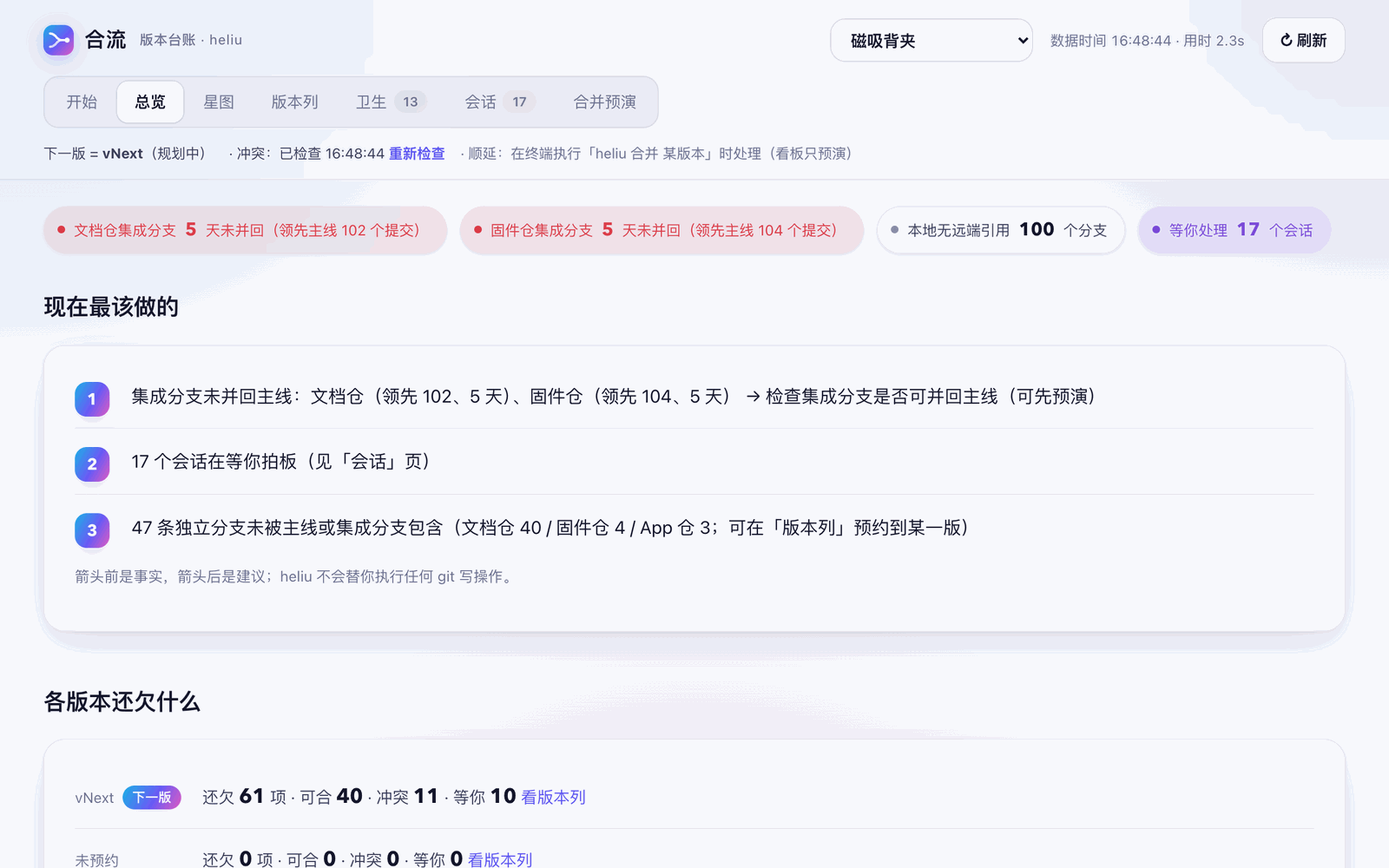
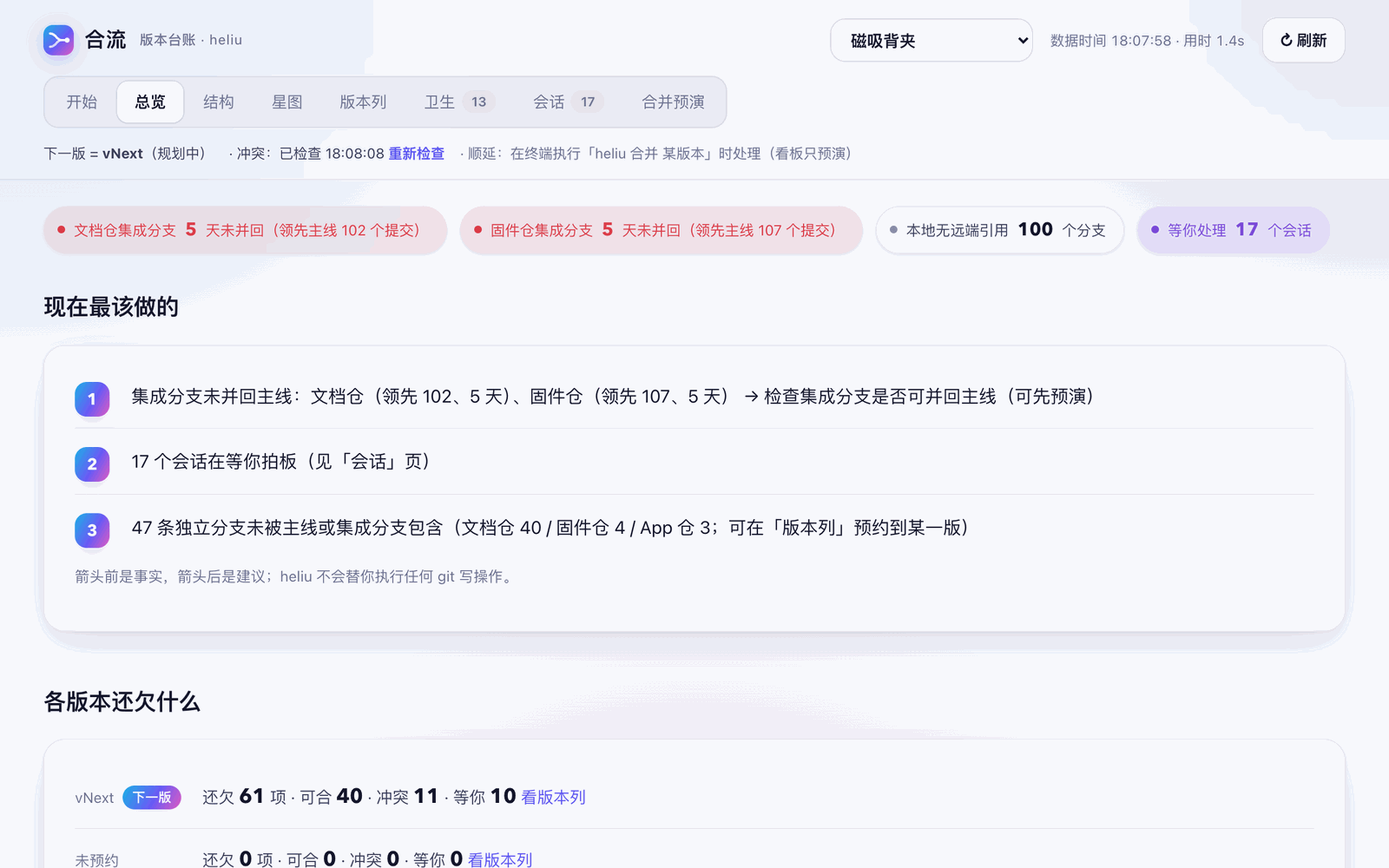
M8：「已合入待确认」与「同步一下」同一口径；README、教程与截图更新
- 卡片新增 mergedTo（看板 /api/features）：用合并后同步同一个函数 mergedSuggestions 算，每次扫描算一次、卡的状态或绑定变了就重算
- 结构页「已合入待确认」= 版本列里的「已合入 · 待确认台账」∪ 分支已合进去但还在等你的卡（标「分支已合入」），数字与同步面板一致（磁吸背夹实测 23 → 26，多出的 3 张是等你回答的卡）
- 测试：卡片 mergedTo 与 GET /api/merged 的建议逐条一致
- README：星团、形状 = 类型、结构页、拖版本行星到合流点复制 Prompt、同步一下、命令速查（分类、同步合并结果 / heliu_after_merge）、已知限制（Safari 剪贴板未实测、内置浏览器不让写剪贴板、类型模块是推测）
- 教程：「用拖的」合并、合并完同步一下、星团怎么看、结构页、modules.yaml 示例、速查卡
- 截图：用真实数据的新副本另起看板重拍（新增 structure-light.png）

diff --git a/src/board/data.ts b/src/board/data.ts
@@ -57,7 +57,7 @@ import { baselinePreview } from "./baseline.ts";
 import { HELIU_ROOT } from "./root.ts";
 import { classify, classifyText, FEATURE_TYPES } from "../core/classify.ts";
 import { loadModules } from "../core/modules.ts";
-import { afterMerge } from "../core/after-merge.ts";
+import { afterMerge, mergedSuggestions } from "../core/after-merge.ts";
 import { buildMergePrompt } from "../core/merge-prompt.ts";
 import { buildHygiene } from "./hygiene.ts";
 
@@ -74,6 +74,8 @@ export interface Scan {
   precheck: boolean;
   /** 「尚无独有提交」判定缓存（bindingKey → 是否），随扫描一起过期 */
   zero: Map<string, boolean>;
+  /** M8：合并后同步的建议（卡号 → 可改成的状态）；台账里卡的状态 / 绑定变了就重算 */
+  merged?: { sig: string; p: Promise<Map<string, "已合入" | "已进主线">> };
 }
 
 export interface BoardOptions {
@@ -192,6 +194,19 @@ export class BoardService {
       for (const c of missing) scan.zero.set(bindingKey(c.repo, c.branch), hit.has(bindingKey(c.repo, c.branch)));
     }
     return new Set([...scan.zero].filter(([, v]) => v).map(([k]) => k));
+  }
+
+  /** M8：与「同步一下」同一条规则（mergedSuggestions），每次扫描算一次；卡的状态或绑定变了就重算 */
+  private mergedOf(project: ProjectConfig, scan: Scan, features: LedgerFeature[]): Promise<Map<string, "已合入" | "已进主线">> {
+    const sig = features.map((f) => `${f.id}:${f.status}:${f.bindings.map((b) => `${b.repo}/${b.branch}`).join(",")}`).join("|");
+    if (!scan.merged || scan.merged.sig !== sig) {
+      const p = mergedSuggestions(project, this.paths, { reconciled: scan.result, timeoutMs: this.timeoutMs }).then(
+        (r) => new Map(r.suggestions.map((s) => [s.id, s.to] as const)),
+        () => new Map<string, "已合入" | "已进主线">(),
+      );
+      scan.merged = { sig, p };
+    }
+    return scan.merged.p;
   }
 
   private nextOf(milestones: LedgerMilestone[]): { id: string; status: LedgerMilestone["status"] } | null {
@@ -359,11 +374,13 @@ export class BoardService {
     // M8：给每张卡标类型 / 模块（卡片上写了就用卡片的，没写就按标题、分支标签、会话标题、分支名推测）
     const mods = loadModules(ledger.dir);
     const featById = new Map(features.map((f) => [f.id, f]));
+    const mergedTo = await this.mergedOf(project, scan, features);
     for (const col of shown)
       for (const card of col.cards) {
         const f = featById.get(card.id) ?? null;
         const text = classifyText([card.title, ...card.bindings.flatMap((b) => [b.label, b.session?.title, b.branch])]);
         Object.assign(card, classify(f, text, mods.modules));
+        card.mergedTo = card.done ? null : (mergedTo.get(card.id) ?? null);
       }
     return {
       data: {
@@ -437,6 +454,7 @@ export class BoardService {
         typeSource: f.type ? "card" : "guess",
         module: f.module ?? "其他",
         moduleSource: f.module ? "card" : "guess",
+        mergedTo: null,
       });
     };
     if (todo) {

diff --git a/web/structure-model.ts b/web/structure-model.ts
@@ -43,6 +43,8 @@ export interface SItem {
   repos: string[];
   /** 没卡的分支：改类型 / 模块时据此建卡 */
   bind: { repo: string; branch: string } | null;
+  /** 主状态不是「已合入待确认」（例如还在等你），但分支其实已经合进去了：也列进「已合入待确认」，与「同步一下」一致 */
+  alsoMerged: boolean;
 }
 
 export interface SModule {
@@ -111,7 +113,10 @@ export function buildStructure(report: ReconcileReport, features: FeaturesData):
         lastAt: c.lastActivityAt,
         repos: [...new Set(c.bindings.map((b) => b.repoLabel))],
         bind: null,
+        alsoMerged: false,
       });
+      const it = items[items.length - 1]!;
+      if (c.mergedTo && it.state !== "done" && it.state !== "merged") it.alsoMerged = true;
     }
   // 还没建卡、也还没进主线的分支（与星图"还没建卡"同一口径）
   for (const r of report.repos) {
@@ -133,6 +138,7 @@ export function buildStructure(report: ReconcileReport, features: FeaturesData):
         lastAt: b.lastCommitAt,
         repos: [r.label],
         bind: { repo: r.id, branch: b.branch },
+        alsoMerged: false,
       });
     }
   }
@@ -164,7 +170,7 @@ export function buildStructure(report: ReconcileReport, features: FeaturesData):
   }
   const decisions: StructureModel["decisions"] = {};
   for (const s of STATES) if (s.decide) {
-    const list = items.filter((i) => i.state === s.key).sort(byUrgency);
+    const list = items.filter((i) => i.state === s.key || (s.key === "merged" && i.alsoMerged)).sort(byUrgency);
     if (list.length) decisions[s.key] = list;
   }
   const types = FEATURE_TYPES.filter((t) => items.some((i) => i.type === t));

diff --git a/tests/m8.test.ts b/tests/m8.test.ts
@@ -217,6 +217,11 @@ describe("看板接口", () => {
     const list = ((await g.json()) as { data: MergedData }).data;
     expect(list.dryRun).toBe(true);
     expect(list.suggestions.map((s) => s.id)).toContain(ids.main);
+    // 卡片上的 mergedTo 与「同步一下」同一规则：结构页「已合入待确认」的数字和同步面板一致
+    const fr = await app.request("/api/features?precheck=0");
+    const cards = ((await fr.json()) as { data: FeaturesData }).data.columns.flatMap((c) => c.cards);
+    const flagged = cards.filter((c) => c.mergedTo).map((c) => [c.id, c.mergedTo]);
+    expect(flagged.sort()).toEqual(list.suggestions.map((s) => [s.id, s.to]).sort());
     const bad = await app.request("/api/merged", { method: "POST", headers: { "Content-Type": "application/json" }, body: JSON.stringify({}) });
     expect(bad.status).toBe(400);
     const p = await app.request("/api/merged", { method: "POST", headers: { "Content-Type": "application/json" }, body: JSON.stringify({ ids: [ids.main] }) });

diff --git a/web/structure.tsx b/web/structure.tsx
@@ -213,6 +213,7 @@ function ItemLine({ it, showModule }: { it: SItem; showModule?: boolean }) {
         </span>
         <span class="item-sub">
           <span class={`tag t-${s.tone}`}>{s.title}</span>
+          {it.alsoMerged ? <span class="tag t-green" title="分支已被集成分支 / 主线包含，台账还没改；「同步一下」会列出它"> 分支已合入</span> : null}
           {showModule ? <span class="muted"> {it.module} ·</span> : null}
           <span class="muted"> {it.milestone ? `预约 ${it.milestone}` : it.cardId ? "未预约" : it.repos.join("、")}</span>
           {it.lastAt ? <span class="muted"> · {ago(it.lastAt)}</span> : null}

diff --git a/src/board/api-types.ts b/src/board/api-types.ts
@@ -131,6 +131,8 @@ export interface BoardCard {
   /** M8：所属模块（整机的组成部分） */
   module: string;
   moduleSource: "card" | "guess";
+  /** M8：分支已被集成分支 / 主线包含、台账还没改——「同步一下」会把它改成的状态（与 /api/merged 同一规则）；已完成的卡为 null */
+  mergedTo: "已合入" | "已进主线" | null;
 }
 
 export interface BoardColumn {

diff --git a/docs/assets/shots.py b/docs/assets/shots.py
@@ -9,7 +9,7 @@
 依赖：pip install playwright pillow；浏览器优先用本机 Google Chrome（channel=chrome），
 没有就用 Playwright 自带的 chromium（需先 playwright install chromium）。
 
-只读说明：脚本只通过 URL 的 #/overview（总览）、#/board（版本列）、#/release（合并预演）切换页面，触发的都是 GET 请求；
+只读说明：脚本只通过 URL 的 #/start、#/galaxy、#/structure、#/overview、#/board、#/release 切换页面，触发的都是 GET 请求；
 不点「登记」「生成合并单」「同步」，也不拖卡片，所以不会写台账。
 """
 import argparse
@@ -26,6 +26,7 @@ ASSETS = pathlib.Path(__file__).resolve().parent
 SHOTS = [
     ("start-page-light.png", "start", 1280, 820, "light"),
     ("galaxy-dark.png", "galaxy", 1440, 900, "dark"),
+    ("structure-light.png", "structure", 1440, 900, "light"),
     ("board-overview-light.png", "overview", 1280, 800, "light"),
     ("board-overview-dark.png", "overview", 1280, 800, "dark"),
     ("board-columns-dark.png", "board", 1280, 800, "dark"),

diff --git a/README.md b/README.md
@@ -38,21 +38,32 @@
 
 - **「开始」页五步**：检查环境 → 粘贴仓库路径接入项目（只读检测，猜主线和集成分支）→ 把正在做的分支一次登记成卡 → 就地登记新点子 → 复制合并用的终端命令。
 - **顶栏下拉切换项目**，记住上次选择。
-- **「星图」页**：宇宙星河风格的分支关系图。横轴是时间（越右越新），纵轴是仓库泳道；每条泳道有主线、集成分支两条星河主流。最新的三条分支带呼吸光晕和「★ 最新」，蓝色虚边的星点是还没有功能卡的分支。
+- **「星图」页**：宇宙星河风格的分支关系图。横轴是时间（越右越新），纵轴是仓库泳道；每条泳道有主线、集成分支两条星河主流。每条泳道按类型分行（修复 ◆ / 功能 ● / 调研 ▲ / 文档 ■ / 工程 ⬢ / 其他 ○），默认每行收成一个「星团」：小点是每条分支的时间，旁边写条数、等你几条、最新多久前。点行头或星团展开成星点，「全部展开」一键切换。颜色表示状态，形状表示类型。最新的三条分支带呼吸光晕和「★ 最新」，蓝色虚边的星点是还没有功能卡的分支。
+- **「结构」页**：整机功能一页看完。顶部是现在该你决定的（等你 / 冲突 / 已合入待确认 / 可合并 / 落后 / 还没建卡），点数字列出条目，每条能跳到星图定位；中间是「模块 × 类型」矩阵；下面每个模块一张卡，写着进度和最需要决定的三项，展开后可以改类型和模块。
+- **类型和模块是推测的**：按标题、会话标题、分支名里的关键词推测（fix / bug / 修复 → 修复，调研 / 评估 → 调研……）。你改过一次就写进卡片，之后推测不会覆盖。模块词典是内置的通用划分，可在台账目录放 `modules.yaml` 换成你自己的。
 
 | 在星图里拖 | 放到 | 发生什么 |
 |---|---|---|
 | 分支星点 | 右侧版本行星 | 改预约到这一版；还没卡的分支会自动建卡 |
 | 分支星点 | 行星旁的小卡星 | 把分支绑定到这张卡 |
 | 星点 | 「未预约」 | 取消预约 |
-| 星点 | 泳道右端的「合流点」 | 排进这一版的合并单，决定设为「并入」，立刻显示试合结果和执行命令 |
+| 星点 | 泳道右端的「合流点」 | 排进这一版的合并单，决定设为「并入」，显示试合结果，并把这一版的合并 Prompt 复制到剪贴板 |
+| 星点 | 左侧的类型行头 | 改类型（写进卡片；还没卡的分支会自动建卡） |
+| **版本行星** | **「合流点」** | **合并这一版**：刷新合并单，把一段合并 Prompt 复制到剪贴板 |
 
-拖到合流点**只写合并单，不执行 git 合并**。真正合并仍在终端运行 `heliu 合并 <版本>`，看完摘要输入 yes 才开始，并且可以回滚。手机上不方便拖时，点星点，在详情面板里用下拉和按钮完成同样的操作。
+复制的 Prompt 粘贴到任意 Claude 会话即可。它让 Claude 先运行预演、用中文讲清会合入什么、顺延什么、哪里有冲突，并写明「不要替我执行合并」，Prompt 里不带 `--yes`。真正合并仍在终端运行 `heliu 合并 <版本>`，看完摘要输入 yes 才开始，并且可以回滚。
+
+合并完回到看板，点 **「刚合并完？同步一下」**（星图、结构页、合并预演页都有）。它重新对账，列出「分支已被集成分支 / 主线包含、台账还是旧状态」的卡，你勾选后才写进台账；只改台账，不碰仓库，状态只往前改。终端里对应 `heliu 同步合并结果`（加 `--dry-run` 只看不写）。
+
+拖到合流点**只写合并单，不执行 git 合并**。手机上不方便拖时，点星点或行星，在详情面板里用下拉和按钮完成同样的操作。
 
 <table>
   <tr>
     <td align="center" width="50%"><img src="docs/assets/start-page-light.png" alt="看板「开始」页：渐变大标题的欢迎说明，下面第 1 步「检查环境」只列出提醒项，正常项收成一行可展开" /><br/><sub><b>开始</b>：五步上手，第一次打开就落在这里</sub></td>
-    <td align="center" width="50%"><img src="docs/assets/galaxy-dark.png" alt="星图：深色星空背景上，文档仓、固件仓两条泳道里分布着彩色星点，右侧是发光的 vNext 行星和「未预约」「已发布」，最新分支标着金色「★ 最新」" /><br/><sub><b>星图</b>：纵横看清每条分支在哪、离合并还差什么</sub></td>
+    <td align="center" width="50%"><img src="docs/assets/galaxy-dark.png" alt="星图：深色星空背景上，文档仓、固件仓泳道按修复、功能、调研、文档、工程分行，每行收成一个星团，标着条数、等你几条和最新时间；右侧是发光的 vNext 行星和合流点" /><br/><sub><b>星图</b>：按类型收成星团，点开看每条分支</sub></td>
+  </tr>
+  <tr>
+    <td align="center" colspan="2"><img src="docs/assets/structure-light.png" alt="结构页：顶部「现在该决定的」几个大数字（等你回答、有冲突、可合并、还没建卡），下面是模块 × 类型矩阵和每个模块的进度条" width="80%" /><br/><sub><b>结构</b>：整机由哪些模块组成、每块在修还是在做、现在该你决定什么</sub></td>
   </tr>
 </table>
 
@@ -85,7 +96,7 @@
 
 ## 看板一览
 
-`heliu board` 打开一个只监听 127.0.0.1 的本机网页，共七页：开始、总览、星图、版本列、卫生、会话、合并预演。不带 `--project` 也能启动，页面里选项目。下面是其中四页：
+`heliu board` 打开一个只监听 127.0.0.1 的本机网页，共八页：开始、总览、结构、星图、版本列、卫生、会话、合并预演。不带 `--project` 也能启动，页面里选项目。下面是其中四页：
 
 <table>
   <tr>
@@ -226,7 +237,7 @@ CLAUDE="$(ls -d "$HOME/Library/Application Support/Claude/claude-code/"*/*/claud
     Status: ✔ enabled
 ```
 
-最后在 Claude 桌面应用里新开一个会话：输入 `/heliu` 应能看到 `/heliu:heliu` Skill，会话可用的工具里应有 13 个 `heliu_*` 工具。
+最后在 Claude 桌面应用里新开一个会话：输入 `/heliu` 应能看到 `/heliu:heliu` Skill，会话可用的工具里应有 14 个 `heliu_*` 工具。
 
 ### 4. 接入第一个项目
 
@@ -287,11 +298,13 @@ scripts/uninstall.sh            # 想先看会做什么：scripts/uninstall.sh -
 | 改预约 | `heliu 预约 F-0003 v1.3`（版本不存在就新建；写 `无` 取消预约） | `heliu_feature_reserve` |
 | 我在哪（分支 / 功能卡 / 预约 / 落后多少） | `heliu 我在哪` | `heliu_whereami` |
 | 把现有分支登记成草稿卡 | `heliu sync --dry-run` → `heliu sync` | `heliu_sync` |
+| 改类型 / 模块（不改就按推测） | `heliu 分类 F-0012 --type 修复 --module 语音与对话`（`--type bug` 也认；写 `推测` 恢复推测） | `heliu_feature_set_status`（带 `type` / `module`） |
 | 打开看板 | `heliu board [--project <名>] [--port 7788] [--no-open]`，或双击「合流看板.command」 | — |
 | 合并 · 预演（生成合并单，只读仓库） | `heliu 合并 v1.2 --预演`；改决定 `heliu release set v1.2 F-0012 顺延` | `heliu_release_preview`、`heliu_release_plan_set_decision` |
 | 合并 · 执行 | `heliu 合并 v1.2`（逐条确认；`--dry-run` 只说明会怎么做；`--to-main` 能快进才快进主线） | 不提供 |
 | 合并 · 演练（在克隆上完整跑一遍） | `heliu 演练 v1.2` | — |
 | 合并 · 回滚 | `heliu 回滚 v1.2` | — |
+| 合并后同步（在别处合并了分支，把台账补上） | `heliu 同步合并结果 [--dry-run]` | `heliu_after_merge`（默认只预览） |
 | 会话 / 卫生 / 环境 | `heliu sessions` · `heliu hygiene` · `heliu doctor` | `heliu_sessions`、`heliu_hygiene` |
 | 里程碑 | `heliu milestone add / list / freeze / rename` | `heliu_milestone_list` |
 | 接入新仓库 | `heliu project add <路径> [--integration <分支>] [--ledger repo] [--yes]` | — |
@@ -339,7 +352,7 @@ flowchart TD
 
 | 项目 | 结论 | 依据 |
 |---|---|---|
-| 全量测试 | ✅ 229 个通过、0 失败（15 个测试文件），类型检查通过 | `bun test`、`bun run typecheck` |
+| 全量测试 | ✅ 260 个通过（19 个测试文件），类型检查通过；机器很忙时 hook 计时用例偶尔不过，单独重跑通过（见「已知限制」） | `bun test`、`bun run typecheck` |
 | 真装插件 + 真实桌面会话端到端 | ✅ 通过：会话里出现 13 个 `heliu_*` 工具与 `/heliu:heliu` Skill，直接查到 61 条待办 | [M5 验收记录](docs/04-验收记录/M5.md) 闸门一 |
 | 接入其他项目 | ✅ 通过：向导真实接入第二个项目，被管理仓库零写入 | [M5 实现说明](docs/03-架构/M5-实现说明.md) |
 | 三仓库扫描速度 | ✅ 终验三轮实测 0.52 / 0.6 / 1.61 秒，iCloud 仓库不卡死 | [M5 验收记录](docs/04-验收记录/M5.md) |
@@ -355,7 +368,7 @@ flowchart TD
 | [使用教程](docs/教程.md) | 通俗版：三个词、四个日常动作、看板怎么看、常见情况怎么办、速查卡 |
 | [产品定义](docs/02-产品定义/产品定义_v0.1.md) | 做什么、为什么、看板信息架构、怎么算做成 |
 | [架构决策](docs/03-架构/架构决策_v0.1.md) | 7 条 ADR（技术栈、数据落点、git 只读纪律、hooks……） |
-| [里程碑任务卡与实现说明](docs/03-架构/) | `M1…M5-任务卡.md` 与 `M1…M5-实现说明.md`：每个里程碑的规格与实现细节、实测数字 |
+| [里程碑任务卡与实现说明](docs/03-架构/) | `M1…M8-任务卡.md` 与 `M1…M5-实现说明.md`：每个里程碑的规格与实现细节、实测数字 |
 | [验收记录](docs/04-验收记录/) | 每个里程碑的验收记录（Fable 终验 + Codex 二次验收）、截图、[M4 演练报告](docs/04-验收记录/M4-演练报告.md) |
 | [现场证据](docs/00-现场证据/)、[调研](docs/01-调研/) | 现状快照、竞品与社区调研、Claude Code 接入点核实 |
 | [交付总结](docs/交付总结_20261026.md) | 调研结论、使用方式、五个里程碑验收结论、用户待办 |
@@ -371,7 +384,9 @@ flowchart TD
 - 用 `--with-mcp` 额外注册 user 级 MCP 后，会话里 heliu 工具会出现两份（插件自带同名 MCP）；默认安装只有插件那一份。
 - 注册表里有多个项目后，在项目目录之外运行命令需要加 `--project <名>`。
 - 版本列的拖拽只支持桌面浏览器，手机上用卡片展开后的下拉；星图的拖拽用 Pointer Events，触屏也能拖。
-- 星图与看板都不执行 git 合并：拖到合流点只把这一项写进合并单。需要拖拽直接执行合并的话，要单独修改这条安全约定。
+- 星图与看板都不执行 git 合并：拖到合流点只写合并单、复制合并 Prompt。需要拖拽直接执行合并的话，要单独修改这条安全约定。
+- 自动复制 Prompt 在 Chrome 里实测可用；Safari 按它要求的写法实现（松手当刻交给剪贴板），但还没在 Safari 里实测。浏览器不让写剪贴板时（例如 Claude 桌面应用内置的浏览器面板），面板会提示「自动复制没成功」，点「复制 Prompt」即可。
+- 类型和模块是按关键词推测的，会有分错的；改一次就记住。没有卡的分支只按推测分组显示，不落盘，除非你改它（这时会顺手建卡）。
 - hook 必须在 300 毫秒内返回，否则为了不拖慢会话会静默放弃注入。机器很忙时（实测负载 7 以上）SessionStart 注入可能偶尔缺失，对应的计时测试也会偶尔不过。
 - 仓库放在 iCloud Drive 时，Claude 桌面应用的「预览」（`.claude/launch.json`）启动器拿不到 iCloud 目录的访问权（报 `Operation not permitted`），看板请在终端用 `bin/heliu board` 启动。
 - 在本仓库目录内开会话时，根目录的 `.mcp.json`（插件配置）会被当作项目级 MCP 配置再读一次，提示 `CLAUDE_PLUGIN_ROOT` 未定义；无害，插件自带的 `plugin:heliu:heliu` 才是生效的那份。

diff --git a/docs/教程.md b/docs/教程.md
@@ -47,7 +47,7 @@ bin/heliu board
 
 地址是 `http://127.0.0.1:7788/`，只有你这台电脑能访问。第一次打开会落在 **「开始」页**，照着五步做就行：检查环境、接入项目、把现有分支登记成卡、登记新点子、复制合并命令。接入项目时只需粘贴仓库路径（Finder 里选中文件夹按 ⌥⌘C 复制路径）。顶栏的下拉框用来切换项目。
 
-看板一共七页。日常先看「总览」：
+看板一共八页。日常先看「总览」；分支多了想抓重点，看「结构」（第 5 节）：
 
 ![总览](assets/board-overview-light.png)
 
@@ -158,6 +158,19 @@ bin/heliu 回滚 v1.2 --project 磁吸背夹
 bin/heliu 演练 v1.2 --project 磁吸背夹
 ```
 
+**不想记命令？用拖的。** 在「星图」里把右边的**版本行星拖到「合流点」**，看板会刷新这一版的合并单，并把一段合并 Prompt 复制到剪贴板。把它粘贴进任意一个 Claude 会话，Claude 会：
+
+1. 先运行预演，用中文告诉你会合入什么、顺延什么、哪里有冲突；
+2. **不替你合并**——Prompt 里写明了，也不带 `--yes`；你在终端自己运行上面「第三步」的命令，输入 yes 才开始；
+3. 你说"合完了"之后，运行同步命令，把台账补上并汇报。
+
+**合并完，记得同步一下。** 如果你是在别处合的（比如在某个会话里手动 merge 了），台账不会自动知道。回到看板点 **「刚合并完？同步一下」**：它重新对账，列出"分支已经被集成分支或主线包含、台账还是旧状态"的卡，你勾选后才写进去。只改台账、不碰仓库，状态只往前改。终端里也一样：
+
+```bash
+bin/heliu 同步合并结果 --dry-run --project 磁吸背夹   # 先看看
+bin/heliu 同步合并结果 --project 磁吸背夹             # 写进台账
+```
+
 ## 5. 看板其他几页
 
 ### 星图：一眼看清所有分支
@@ -168,6 +181,8 @@ bin/heliu 演练 v1.2 --project 磁吸背夹
 - **竖着看是仓库**：每个仓库一条泳道，底部两条发光的"河"分别是主线和集成分支。
 - **星点的颜色**和版本列的灯一样：紫 = 等你回答，红 = 有冲突，绿 = 可合并，黄 = 落后需同步，灰 = 开发中或停滞，蓝色虚边 = 还没有功能卡。
 - **右边的行星**是版本。悬停在行星上，会亮出所有预约到这一版的连线。
+- **每条泳道按类型分行**：修复 ◆、功能 ●、调研 ▲、文档 ■、工程 ⬢、其他 ○。默认每行收成一个"星团"：一条带子上的小点是每条分支的时间，旁边写着几条、几条在等你、最新多久前。点左边的行头或星团就展开成一颗颗星点，再点一下收起；「全部展开」一键切换。搜索或点上面的筛选时，有命中的行会自动展开。
+- **形状表示类型，颜色表示状态**。类型是按标题、分支名里的关键词猜的，猜错了就把星点拖到正确的行头上，或者在详情里改，改一次就记住。
 
 在星图里可以直接拖：
 
@@ -176,13 +191,35 @@ bin/heliu 演练 v1.2 --project 磁吸背夹
 | 星点 | 版本行星 | 预约到这一版；还没卡的分支会自动建一张卡 |
 | 星点 | 行星旁的小星星（还没关联分支的卡） | 把这条分支绑到那张卡上 |
 | 星点 | 「未预约」 | 取消预约 |
-| 星点 | 泳道右端的「合流点」 | 排进这一版的合并单，决定是「并入」，马上告诉你试合有没有冲突 |
+| 星点 | 泳道右端的「合流点」 | 排进这一版的合并单，决定是「并入」，告诉你试合有没有冲突，并复制合并 Prompt |
+| 星点 | 左边的类型行头 | 改类型 |
+| 版本行星 | 「合流点」 | 合并这一版：复制合并 Prompt（见第 4 节"用拖的"） |
 
-拖到合流点不会真的合并代码，它只是把这一项写进合并单。真正合并还是第 4 节的「执行」那一步：在终端输入 yes 才开始。
+拖到合流点不会真的合并代码，它只是写合并单、复制 Prompt。真正合并还是第 4 节的「执行」那一步：在终端输入 yes 才开始。
 
 点一下星点会弹出详情：分支名、最后提交时间、落后多少、在等你什么。手机上不方便拖，就在详情里用下拉框和按钮做同样的事。
 
 ![星图](assets/galaxy-dark.png)
+
+### 结构：整机由哪些部分组成、现在该决定什么
+
+分支多到看不过来时看这一页。它把所有功能卡和还没建卡的分支，按"模块 × 类型"收好：
+
+- **现在该决定的**：几个大数字——等你回答、有冲突、已合入待确认、可合并、落后需同步、还没建卡。点一个数字，下面列出这一类的全部条目；每条有「星图里看」，点了直接跳到星图里那颗星。点「已合入待确认」会顺手打开「同步一下」。
+- **模块 × 类型**：一张表看出整机由哪些模块组成（语音与对话、界面与交互、固件与连接……），每块是在修 bug 还是在加功能。格子越深条数越多，带小红点的格子里有等你或有冲突的。点格子跳到那个模块。
+- **模块卡**：每个模块的进度、各状态有几条、最需要你决定的三项。点「展开全部」能看到所有条目，并直接改类型、改模块。
+
+模块的划分是内置的通用词典。想换成你自己的，在台账目录放一个 `modules.yaml`：
+
+```yaml
+modules:
+  - name: 语音与对话
+    keywords: [语音, asr, tts, 唤醒]
+  - name: 外壳与结构
+    keywords: [外壳, 结构, 模具]
+```
+
+![结构](assets/structure-light.png)
 
 ### 其他页
 
@@ -260,6 +297,8 @@ bin/heliu project add /路径/到/你的仓库
 合并·演练     bin/heliu 演练 v1.2 --project 磁吸背夹
 合并·执行     bin/heliu 合并 v1.2 --project 磁吸背夹     （输入 yes 才执行）
 合并·反悔     bin/heliu 回滚 v1.2 --project 磁吸背夹
+合并后同步    bin/heliu 同步合并结果 --project 磁吸背夹   （--dry-run 只看）
+改类型        bin/heliu 分类 F-0012 --type 修复 --module 语音与对话
 体检          bin/heliu doctor      bin/heliu hygiene
 ```
 
